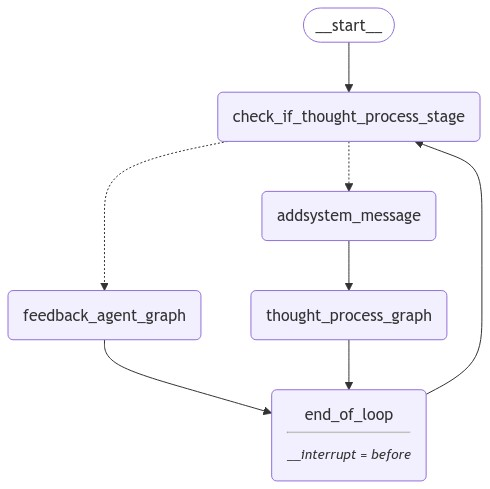
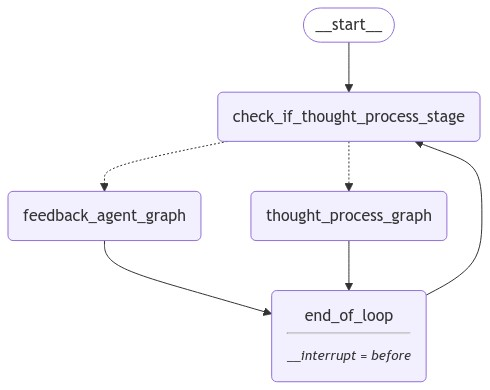
fix chat for thought process

diff --git a/app/views/interview.py b/app/views/interview.py
@@ -4,7 +4,7 @@ from app.agents.main_graph import main_graph
 from langchain_core.messages import SystemMessage, AIMessage
 
 from app.views.components.header import header_component
-from app.views.components.message_bubble import message_bubble_component
+from app.views.components.chat_message import chat_message
 from app.views.components.python_editor import python_editor
 
 def interview_view(request, id: str):
@@ -37,19 +37,18 @@ def interview_view(request, id: str):
                     cls="chat-container",
                 )(
                     H3("Chat", style="flex: 0 0 auto; margin-bottom: 10px;"),
-                    Div(style="flex: 1; overflow-y: auto; margin-bottom: 10px;")(
-                        *[
-                            message_bubble_component(role=m[0], content=m[1])
-                            for m in messages
-                        ]
+                    Div(id="chat-messages")(
+                        style="flex: 1; overflow-y: auto; margin-bottom: 10px;",
+                    )(
+                        *[chat_message(role=m[0], content=m[1]) for m in messages]
                     ),
                     Form(
-                        hx_post="/chat",
-                        hx_target=".chat-container",
+                        hx_post=f"/chat?id={id}",
+                        hx_target="#chat-messages",
                         hx_swap="beforeend",
                         style="flex: 0 0 auto; display: flex; gap: 10px;",
                     )(
-                        Input(style="margin-bottom: 0; flex: 1;")(type="text"),
+                        Input(style="margin-bottom: 0; flex: 1;", name="message")(type="text"),
                         Button("Send"),
                     ),
                 ),

diff --git a/app/agents/main_graph.py b/app/agents/main_graph.py
@@ -11,7 +11,6 @@ from app.agents.state_schema import OverallState, InputState, OutputState
 from app.agents.subgraphs.feedback_agent.graph import feedback_agent_graph
 from app.agents.subgraphs.thought_process.graph import thought_process_graph
 
-from app.agents.system_messages import default_system_message
 
 g = StateGraph(OverallState, input=InputState, output=OutputState)
 g.add_edge(START, "check_if_thought_process_stage")
@@ -20,19 +19,15 @@ g.add_node("check_if_thought_process_stage", RunnablePassthrough())
 g.add_conditional_edges(
     "check_if_thought_process_stage",
     lambda x: (
-        "addsystem_message" if x.is_thought_process_stage() else n(feedback_agent_graph)
+        n(thought_process_graph)
+        if x.is_thought_process_stage()
+        else n(feedback_agent_graph)
     ),
-    [n(feedback_agent_graph), "addsystem_message"],
+    [n(feedback_agent_graph), n(thought_process_graph)],
 )
 
 g.add_node(n(thought_process_graph), thought_process_graph)
 g.add_edge(n(thought_process_graph), "end_of_loop")
-
-g.add_node(
-    "addsystem_message",
-    lambda x: {"messages": [default_system_message(x.interview_question)]},
-)
-g.add_edge("addsystem_message", n(thought_process_graph))
 
 g.add_node(n(feedback_agent_graph), feedback_agent_graph)
 g.add_edge(n(feedback_agent_graph), "end_of_loop")

diff --git a/app/agents/subgraphs/thought_process/prompts.py b/app/agents/subgraphs/thought_process/prompts.py
@@ -1,8 +1,8 @@
-from langchain_core.messages import SystemMessage
+from langchain_core.messages import SystemMessage, HumanMessage
 
 def default_system_message(interview_question: str):
-    return SystemMessage(
-        content="""
+    return [SystemMessage(
+        content=f"""
 You are a seasoned senior software engineer interviewing candiate SWE.
 
 Follow these rules:
@@ -11,8 +11,10 @@ Follow these rules:
     - Problem-solving process: The candidate will be presented with a Python coding question.
     - Think out loud: Encourage the candidate to walk through their thought process verbally before writing any code.
 3. Ask clarifying questions: Inform the candidate that they can ask clarifying questions at any point.
+4. Be concise: Keep your responses as short as possible.
+5. Don't need to repeat the question: the question will be displayed in the panel. 
 
 The interview question for today is:
 {interview_question}
 """
-    )
+    ), HumanMessage(content="The interviewee entered the chat.")]

diff --git a/app/views/components/chat_message.py b/app/views/components/chat_message.py
@@ -1,0 +1,25 @@
+from fasthtml.common import *
+
+def chat_message(role, content):
+    alignment = "flex-start" if role == "AI" else "flex-end"
+
+    return Div(
+        Div(
+            Div(  # Shows the Role
+                Strong(role.capitalize()),
+                style=f"font-size: 0.9em; letter-spacing: 0.05em;",
+            ),
+            Div(  # Shows content and applies font color to stuff other than syntax highlighting
+                Style(
+                    f".marked *:not(code):not([class^='hljs'])"
+                ),
+                Div(content),
+                style=f"margin-top: 0.5em;",
+            ),
+            # extra styling to make things look better
+            style=f"""
+                margin-bottom: 1em; padding: 1em; border: 0.5px solid var(--pico-border-color); border-radius: 24px;
+                max-width: 70%; position: relative; box-shadow: 0 0 10px rgba(0,0,0,0.1);""",
+        ),
+        style=f"display: flex; justify-content: {alignment};",
+    )

diff --git a/app/agents/subgraphs/thought_process/graph.py b/app/agents/subgraphs/thought_process/graph.py
@@ -8,22 +8,24 @@ from langchain_core.prompts import ChatPromptTemplate
 from langchain_core.output_parsers import StrOutputParser
 from app.agents.state_schema import OverallState
 
-from app.agents.llm_models import chat_model_small
+from app.agents.llm_models import chat_model
+from app.agents.subgraphs.thought_process.prompts import default_system_message
 
 
 def generate_thought_process(state: OverallState):
     print("\n>>> NODE: generate_thought_process")
 
-    chain = (
-        ChatPromptTemplate.from_messages(state.messages)
-        | chat_model_small
-    )
+    messages = state.messages
+    if len(messages) == 0:
+        messages = default_system_message(state.interview_question)
 
-    response = chain.invoke({}) 
+    chain = ChatPromptTemplate.from_messages(messages) | chat_model
+
+    response = chain.invoke({})
 
     return {
         "message_from_interviewer": response.content,
-        "messages": [response],
+        "messages": [*messages, response],
     }
 
 

diff --git a/main.py b/main.py
@@ -70,6 +70,7 @@ from app.controllers import profile as profile_controller
 
 from app.views import interview as interview_views
 from app.controllers import code_interpreter as code_interpreter_controller
+from app.controllers import thought_process as thought_process_controller
 
 # Managements
 app.get("/")(home_views.home_view)
@@ -87,6 +88,7 @@ app.get("/interview")(interview_views.interview_view)
 
 app.post("/init")(init_controller.initialize_interview)
 app.post("/run_python")(code_interpreter_controller.run_python)
+app.post("/chat")(thought_process_controller.chat)
 
 
 running_on_server = os.environ.get("RAILWAY_ENVIRONMENT_NAME") == "production"

diff --git a/app/controllers/thought_process.py b/app/controllers/thought_process.py
@@ -1,0 +1,17 @@
+from fasthtml.common import *
+
+from app.agents.main_graph import main_graph
+from app.views.components.chat_message import chat_message
+
+async def chat(request, id: str):
+    form_data = await request.form()
+    message = form_data.get("message")
+
+    config = {"configurable": {"thread_id": id}}
+    main_graph.update_state(
+        config,
+        {"messages": [{"role": "user", "content": message}]}
+    )
+    response = main_graph.invoke(None, config)
+
+    return chat_message("user", message), chat_message("AI", response["message_from_interviewer"])

diff --git a/app/agents/state_schema.py b/app/agents/state_schema.py
@@ -6,7 +6,7 @@ from typing import Annotated, List, Literal
 from pydantic import BaseModel, Field
 from langgraph.graph.message import AnyMessage, add_messages
 
-from app.agents.system_messages import default_system_message
+from app.agents.subgraphs.thought_process.prompts import default_system_message
 
 INTERVIEW_TIME_IN_SECONDS = 60 # 45 minutes
 THOUGHT_TIME_IN_SECONDS = 20 # 10 minutes

diff --git a/app/controllers/code_interpreter.py b/app/controllers/code_interpreter.py
@@ -1,10 +1,11 @@
 from fasthtml.common import *
 
-from app.utils.code_interpreter import execute_code
+# from app.utils.code_interpreter import execute_code
 
 async def run_python(request):
     form_data = await request.form()
     code = form_data.get("code")
 
-    result = execute_code(code)
+    # result = execute_code(code)
+    result = "Hello, World!"
     return P(result)
